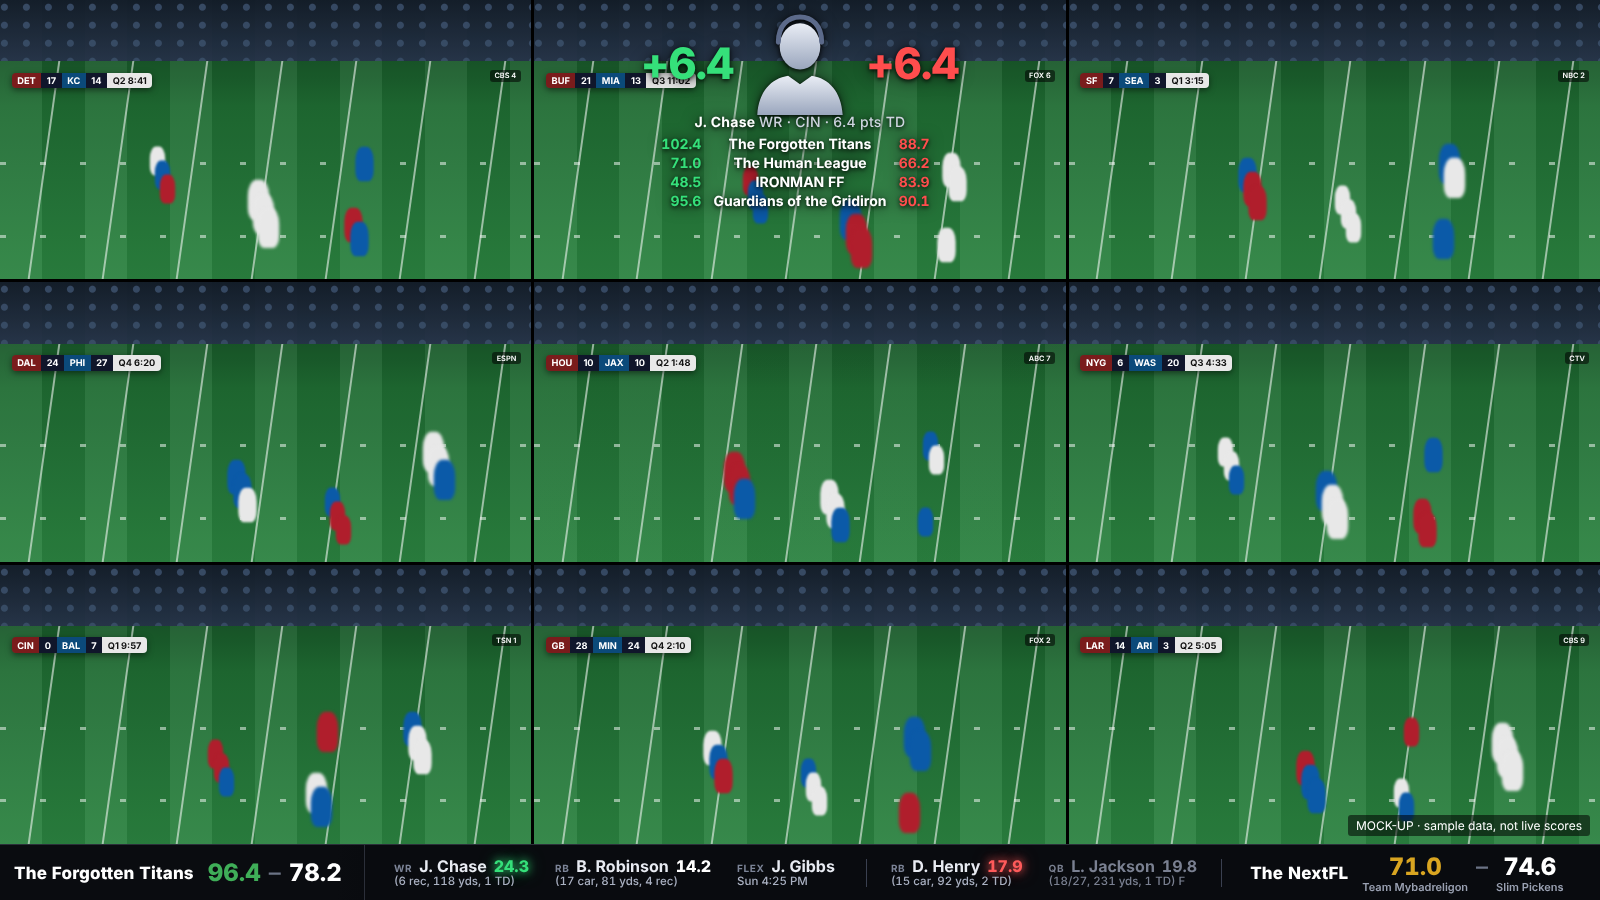
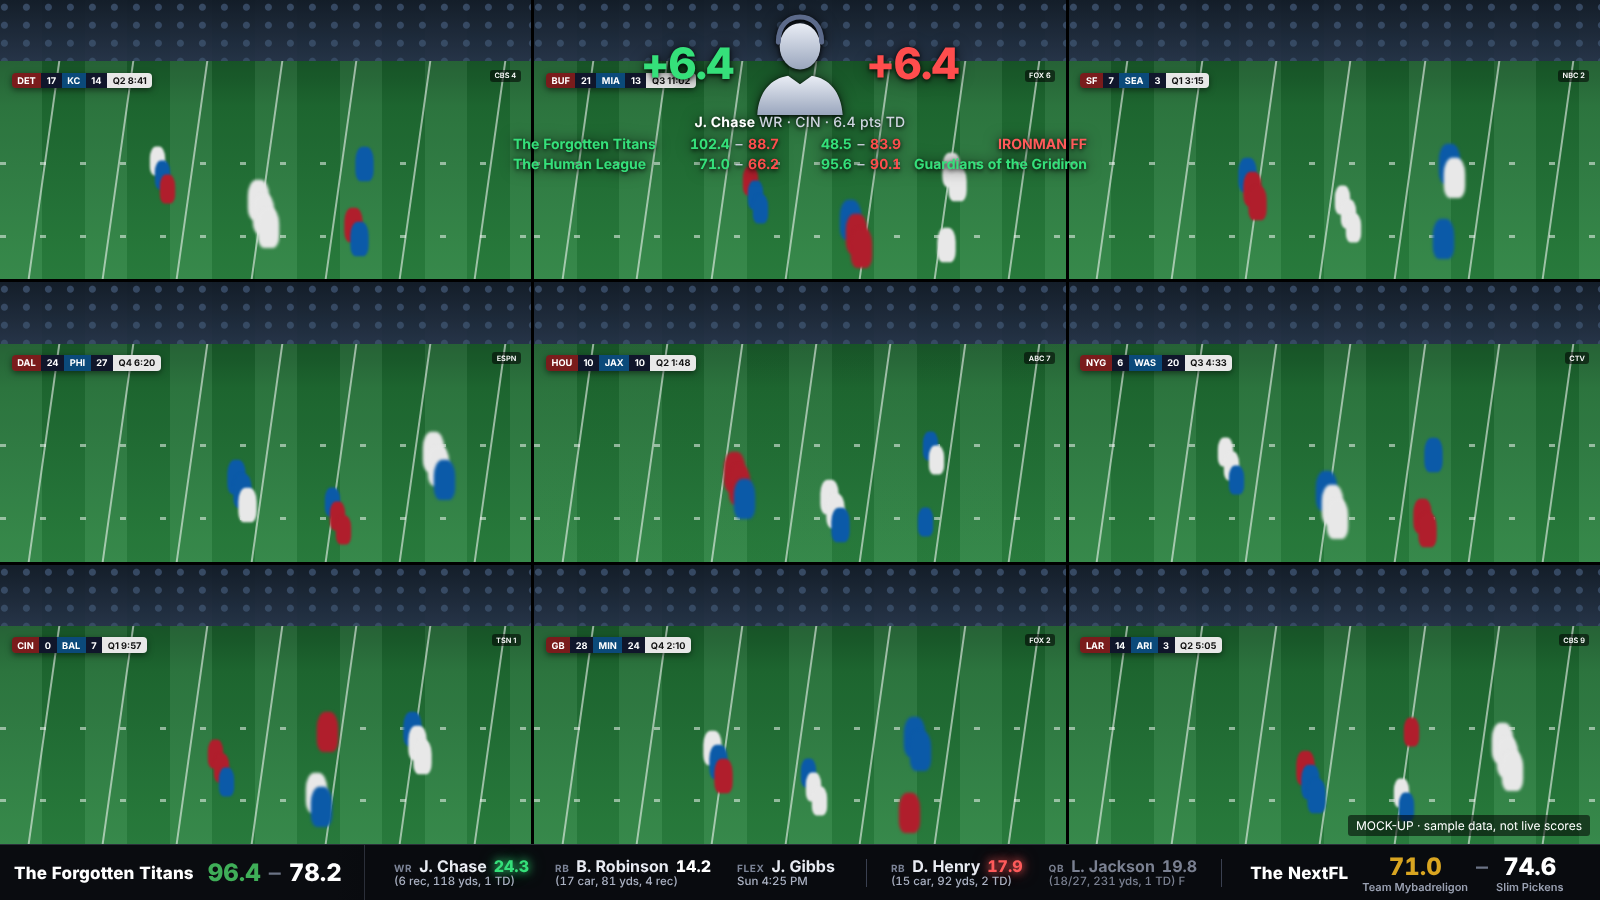
docs: pop-up league rows on the player's side [skip ci]
Claude-Session: https://claude.ai/code/session_01Lsah77R46uPbi1vGqn8c5Q

Changed region(s): [[0.3125, 0.1556, 0.6875, 0.2489]]

diff --git a/docs/img/fantasy-ticker-mock.html b/docs/img/fantasy-ticker-mock.html
@@ -43,17 +43,20 @@ html,body{width:1600px;height:900px;background:#000;overflow:hidden;font-family:
 .nxt .sdn{font-size:24px;font-weight:800}.nxt .d{font-size:24px;color:#6b7385;font-weight:500}
 .fade{position:absolute;right:0;top:0;bottom:0;width:0}
 /* popup: no background, no outline - only a soft shadow so it stays readable on bright video */
-#pop{position:absolute;top:10px;left:50%;transform:translateX(-50%) scale(var(--ps,1));transform-origin:top center;width:640px;display:flex;flex-direction:column;align-items:center;
+#pop{position:absolute;top:10px;left:50%;transform:translateX(-50%) scale(var(--ps,1));transform-origin:top center;width:820px;display:flex;flex-direction:column;align-items:center;
   filter:drop-shadow(0 2px 3px rgba(0,0,0,.85)) drop-shadow(0 0 10px rgba(0,0,0,.55))}
 #pop .top{display:flex;align-items:center;justify-content:center;gap:20px;width:100%}
 #pop .side{flex:1;font-size:62px;font-weight:800;letter-spacing:-.02em;font-variant-numeric:tabular-nums}
 #pop .side.l{text-align:right;color:#35e07a}#pop .side.r{text-align:left;color:#ff4d4d}
 #pop .ph{width:150px;height:150px;flex:none}
 #pop .nm{margin-top:-2px;font-size:20px;font-weight:700;letter-spacing:.02em}#pop .nm span{color:#cfd4e0;font-weight:500}
-#pop .rows{margin-top:8px;width:100%;display:flex;flex-direction:column;gap:3px}
-#pop .row{display:grid;grid-template-columns:1fr auto 1fr;gap:16px;align-items:baseline;font-size:20px;font-weight:700;font-variant-numeric:tabular-nums}
-#pop .row .a{text-align:right;color:#35e07a}#pop .row .c{text-align:center;min-width:250px}#pop .row .b{text-align:left;color:#ff4d4d}
-#pop .row .c small{display:block;font-size:11px;font-weight:600;color:#c9cedb;margin-top:-2px;letter-spacing:.06em;text-transform:uppercase}
+#pop .rows{margin-top:8px;width:100%;display:grid;grid-template-columns:1fr 1fr;column-gap:60px}
+.n-g{color:#35e07a}.n-a{color:#ffc447}.n-r{color:#ff5a5a}
+#pop .col{display:flex;flex-direction:column;gap:4px}
+#pop .rw{display:flex;align-items:baseline;gap:18px;font-size:20px;font-weight:700;font-variant-numeric:tabular-nums}
+#pop .col.l .rw{flex-direction:row}#pop .col.r .rw{flex-direction:row-reverse}
+#pop .rw .lg{flex:1;white-space:nowrap}#pop .col.l .lg{text-align:left}#pop .col.r .lg{text-align:right}
+#pop .rw .tt{display:flex;gap:8px;white-space:nowrap}#pop .rw .tt .a{color:#35e07a}#pop .rw .tt .b{color:#ff4d4d}#pop .rw .tt .d{color:#c9cedb;font-weight:500}
 #cap{position:absolute;right:10px;bottom:64px;font-size:12px;color:#fff;background:rgba(0,0,0,.55);padding:3px 8px;border-radius:3px;z-index:9}
 </style></head><body>
 <div id="grid"></div>
@@ -90,10 +93,12 @@ document.getElementById('ticker').innerHTML=`
  </div><div class="vs"></div>
  <div class="nxt"><span class="ln">The NextFL</span><div class="pair"><div class="sd"><span class="sdn c-a">71.0</span><span class="tn">Team Mybadreligon</span></div><span class="d">–</span><div class="sd"><span class="sdn w">74.6</span><span class="tn">Slim Pickens</span></div></div></div>
 </div>`;
-const rows=[['n-g','The Forgotten Titans','102.4','88.7','Q2 8:41'],['n-a','The Human League','71.0','66.2',''],['n-r','IRONMAN FF','48.5','83.9',''],['n-g','Guardians of the Gridiron','95.6','90.1','']];
+const L=[['n-g','The Forgotten Titans','102.4','88.7'],['n-g','The Human League','71.0','66.2']];
+const R=[['n-r','IRONMAN FF','48.5','83.9'],['n-g','Guardians of the Gridiron','95.6','90.1']];
+const rw=r=>`<div class="rw"><span class="lg ${r[0]}">${r[1]}</span><span class="tt"><span class="a">${r[2]}</span><span class="d">–</span><span class="b">${r[3]}</span></span></div>`;
 const SIL=`<svg class="ph" viewBox="0 0 150 150"><defs><linearGradient id="sg" x1="0" y1="0" x2="0" y2="1"><stop offset="0" stop-color="#e9edf5"/><stop offset="1" stop-color="#9aa6bd"/></linearGradient></defs>
 <ellipse cx="75" cy="52" rx="29" ry="33" fill="url(#sg)"/><path d="M14 150c2-34 20-52 44-56l17 12 17-12c24 4 42 22 44 56z" fill="url(#sg)"/><path d="M44 46c0-24 14-36 31-36s31 12 31 36" fill="none" stroke="#5c6a8a" stroke-width="7" stroke-linecap="round"/></svg>`;
 document.getElementById('pop').innerHTML=`<div class="top"><div class="side l">+6.4</div>${SIL}<div class="side r">+6.4</div></div>
 <div class="nm">J. Chase <span>WR · CIN · 6.4 pts TD</span></div>
-<div class="rows">${rows.map((r,i)=>`<div class="row"><div class="a">${r[2]}</div><div class="c ${r[0]}">${r[1]}</div><div class="b">${r[3]}</div></div>`).join('')}</div>`;
+<div class="rows"><div class="col l">${L.map(rw).join('')}</div><div class="col r">${R.map(rw).join('')}</div></div>`;
 </script></body></html>

diff --git a/docs/fantasy-ticker-scope.md b/docs/fantasy-ticker-scope.md
@@ -74,3 +74,4 @@ Release plan: 0.10.0 = connection + ticker (minor), 0.11.0 = pop-ups (minor). No
 - **Needs from Fantasy Manager** (added to the handoff): roster slot and order, team names, kickoff time, game state, per-player counting-stat line, and per-player points. Display tracking of "last seen score" lives in the page, per device.
 - **Build impact:** the ticker becomes a pinned-header marquee with per-item state (more work than a plain scroll; roughly the size of the pop-up work). Mock-ups in docs/img/ updated 2026-11-08 to this design.
 - Still open: league-name colour (assumed neutral now), the colour rule, address and token. Fantasy Manager's API doc from James is awaited.
+- **Pop-up league rows revised 2026-11-08:** league names sit on the outside of the +points numbers, and each league is listed on the side the player plays for: leagues where I own him on the left (under the green +points, name at the outer left edge, "my total - opponent total" toward the centre), leagues where my opponent owns him on the right (under the red +points, name at the outer right edge). A player who is mine in some leagues and an opponent's in others shows both columns.
